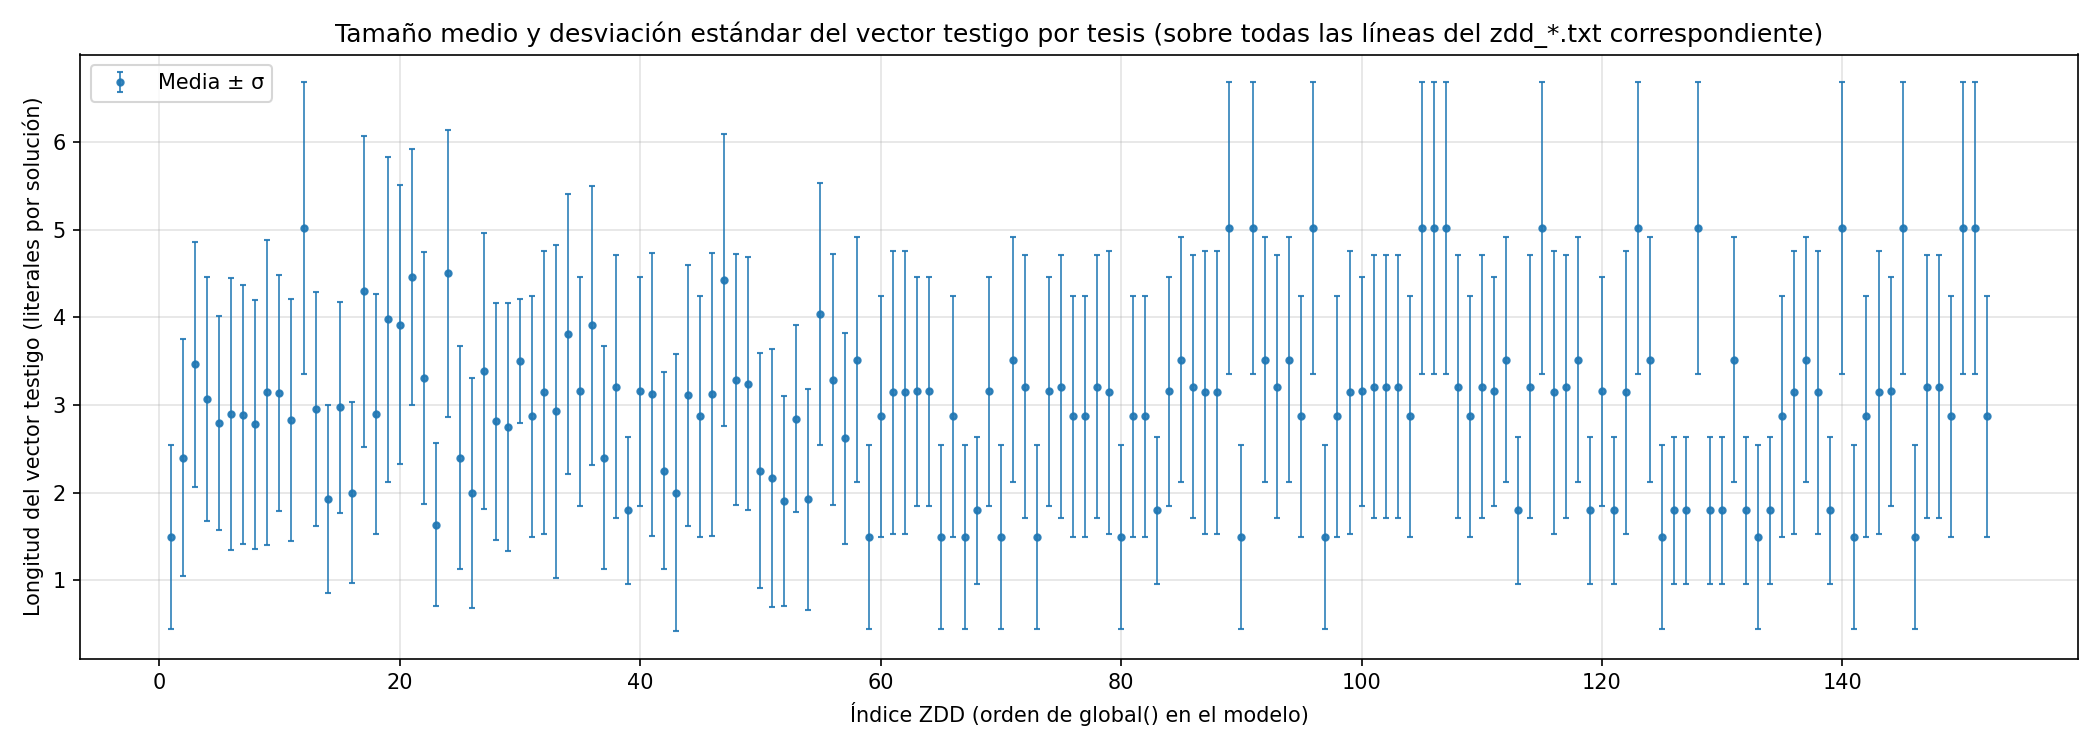
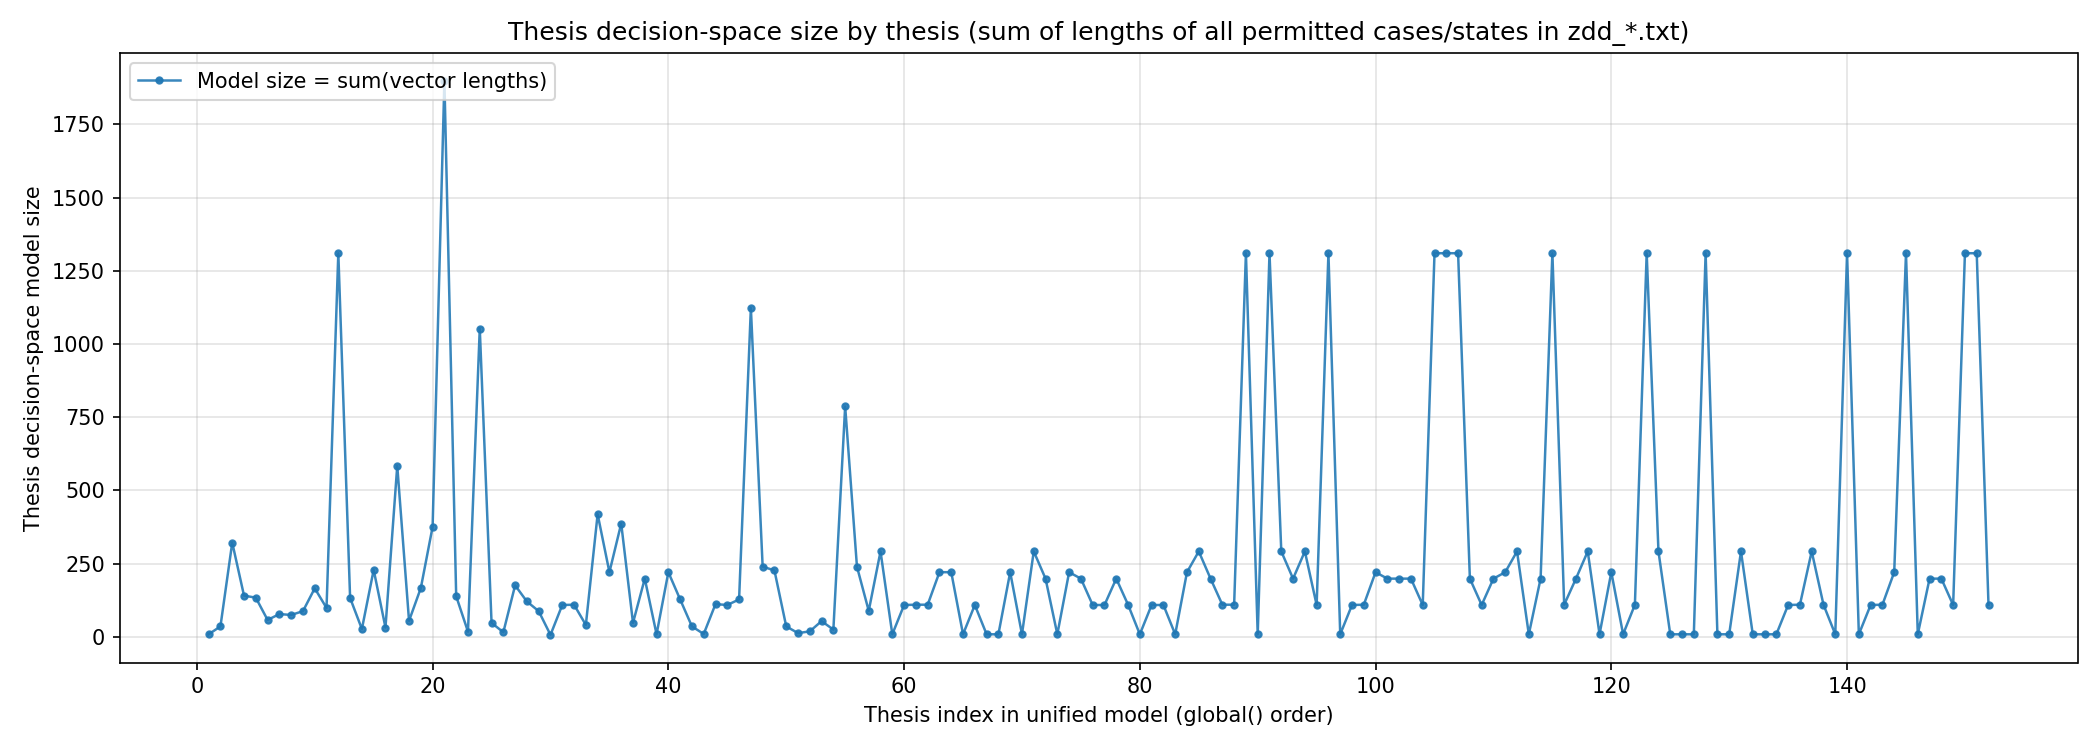
Update thesis decision-space metrics and terminology
Align similarity documentation and outputs with thesis/facts/decision-space terms.
Recompute per-thesis analysis using model size as the sum of vector lengths,
refresh the thesis plot, and add an across-theses summary file with mean/stdev.

Made-with: Cursor

Changed region(s): [[0.031, 0.184, 0.9905, 0.9813], [0.0, 0.0307, 0.9905, 0.2147], [0.0, 0.2453, 0.0619, 0.7973]]

diff --git a/methods/tools/case_resolution_similarity.py b/methods/tools/case_resolution_similarity.py
@@ -1,23 +1,20 @@
 #!/usr/bin/env python3
 """
-Case vs resolution similarity — one summary table only.
+Case vs resolution similarity and thesis decision-space size.
 
-Case similarity: Jaccard on global fact ID sets from witness_export_<n>.json (field assets).
-Resolution similarity: Jaccard on sets of ZDD solution lines from zdd_<n>.txt.
+Definitions:
+- facts: asset IDs in witness_export_<n>.json (field "assets")
+- thesis decision space: full ZDD in zdd_<n>.txt
+- permitted case/state: one vector line in zdd_<n>.txt
 
 Writes:
-  - results/analysis/case_resolution_similarity.txt — table (case band vs median resolution %)
-  - results/analysis/case_resolution_similarity.png — same data as a line chart
-  - results/analysis/thesis_tamano_medio_desviacion.csv — por tesis: hechos en el caso,
-    número de líneas ZDD, tamaño medio de cada solución (cardinal del vector testigo),
-    desviación estándar de esos tamaños
-  - results/analysis/thesis_tamano_medio_desviacion.png — gráfico del tamaño medio ± σ por tesis
-
-Band definitions (raw case Jaccard c), no overlap:
-  - Rows 100 and 90: same value — median resolution among all pairs with c >= 0.9
-  - 80: [0.8, 0.9)   70: [0.7, 0.8)  …  0: [0.0, 0.1)
-
-  python3 methods/tools/case_resolution_similarity.py
+  - results/analysis/case_resolution_similarity.txt
+  - results/analysis/case_resolution_similarity.png
+  - results/analysis/thesis_tamano_medio_desviacion.csv
+    per thesis: facts, permitted cases, mean/stdev vector length, and
+    model-size metric = sum of lengths of all vectors in thesis decision space.
+  - results/analysis/thesis_tamano_medio_desviacion.png
+    plot of thesis decision-space model size by thesis index.
 """
 from __future__ import annotations
 
@@ -40,6 +37,7 @@ OUT_TABLE = ROOT / "results" / "analysis" / "case_resolution_similarity.txt"
 OUT_PNG = ROOT / "results" / "analysis" / "case_resolution_similarity.png"
 OUT_THESIS_STATS = ROOT / "results" / "analysis" / "thesis_tamano_medio_desviacion.csv"
 OUT_THESIS_PNG = ROOT / "results" / "analysis" / "thesis_tamano_medio_desviacion.png"
+OUT_THESIS_SUMMARY = ROOT / "results" / "analysis" / "thesis_decision_space_summary.txt"
 
 _THESIS_ORDER_RE = re.compile(
     r"asset\s+tesis(\d+)_valida\s*=\s*global\(\s*\)\s*;",
@@ -193,14 +191,16 @@ def main() -> None:
         else:
             mean_sz = 0.0
             dev_sz = 0.0
+        model_size_sum = sum(lengths)
         stat_rows.append(
             {
-                "tesis_numero_registro": tid,
-                "indice_zdd": zid,
-                "numero_hechos_caso": n_facts,
-                "numero_soluciones_zdd": n_lines,
-                "tamano_medio_vector_testigo": round(mean_sz, 6),
-                "desviacion_estandar_tamano_vector": round(dev_sz, 6),
+                "thesis_registry_id": tid,
+                "thesis_zdd_index": zid,
+                "facts_count": n_facts,
+                "permitted_cases_count": n_lines,
+                "mean_vector_length": round(mean_sz, 6),
+                "stdev_vector_length": round(dev_sz, 6),
+                "thesis_decision_space_model_size": model_size_sum,
             }
         )
 
@@ -209,6 +209,19 @@ def main() -> None:
         w.writeheader()
         w.writerows(stat_rows)
     print(str(OUT_THESIS_STATS.relative_to(ROOT)))
+
+    model_sizes = [int(r["thesis_decision_space_model_size"]) for r in stat_rows]
+    summary_lines = [
+        "thesis_decision_space_model_size summary (across theses)",
+        f"thesis_count: {len(model_sizes)}",
+        f"mean: {statistics.mean(model_sizes):.6f}",
+        f"stdev: {statistics.stdev(model_sizes):.6f}" if len(model_sizes) > 1 else "stdev: 0.000000",
+        f"min: {min(model_sizes)}",
+        f"median: {statistics.median(model_sizes):.6f}",
+        f"max: {max(model_sizes)}",
+    ]
+    OUT_THESIS_SUMMARY.write_text("\n".join(summary_lines) + "\n", encoding="utf-8")
+    print(str(OUT_THESIS_SUMMARY.relative_to(ROOT)))
 
     ge_090: List[float] = []
     by_band: Dict[int, list] = defaultdict(list)
@@ -271,28 +284,25 @@ def main() -> None:
         plt.close()
         print(str(OUT_PNG.relative_to(ROOT)))
 
-        stat_sorted = sorted(stat_rows, key=lambda r: int(r["indice_zdd"]))
-        xz = [int(r["indice_zdd"]) for r in stat_sorted]
-        means = [float(r["tamano_medio_vector_testigo"]) for r in stat_sorted]
-        stdevs = [float(r["desviacion_estandar_tamano_vector"]) for r in stat_sorted]
+        stat_sorted = sorted(stat_rows, key=lambda r: int(r["thesis_zdd_index"]))
+        xz = [int(r["thesis_zdd_index"]) for r in stat_sorted]
+        model_sizes = [int(r["thesis_decision_space_model_size"]) for r in stat_sorted]
         plt.figure(figsize=(14, 5))
-        plt.errorbar(
+        plt.plot(
             xz,
-            means,
-            yerr=stdevs,
-            fmt="o",
+            model_sizes,
+            marker="o",
+            linewidth=1.2,
             markersize=3,
-            capsize=1.5,
-            elinewidth=0.85,
             color="C0",
             alpha=0.88,
-            label="Media ± σ",
+            label="Model size = sum(vector lengths)",
         )
-        plt.xlabel("Índice ZDD (orden de global() en el modelo)")
-        plt.ylabel("Longitud del vector testigo (literales por solución)")
+        plt.xlabel("Thesis index in unified model (global() order)")
+        plt.ylabel("Thesis decision-space model size")
         plt.title(
-            "Tamaño medio y desviación estándar del vector testigo por tesis "
-            "(sobre todas las líneas del zdd_*.txt correspondiente)"
+            "Thesis decision-space size by thesis "
+            "(sum of lengths of all permitted cases/states in zdd_*.txt)"
         )
         plt.grid(True, alpha=0.35)
         plt.legend(loc="upper left")

diff --git a/README.md b/README.md
@@ -1,12 +1,12 @@
 # Computational Analysis of Judicial Consistency
 
-Code and data for *Computational Analysis of Judicial Consistency through Satisfiability Theory* — formalizing Mexican Supreme Court theses in **Witness**, solving each thesis’s validation constraint with a **CUDA ZDD** workflow, and comparing **case structure** (shared legal facts from witness exports) with **resolution structure** (overlap of solution-space fingerprints).
+Code and data for *Computational Analysis of Judicial Consistency through Satisfiability Theory* — formalizing Mexican Supreme Court theses in **Witness**, solving each thesis’s validation constraint with a **CUDA ZDD** workflow, and comparing **facts overlap** across theses with overlap in their **thesis decision spaces**.
 
 ## What this repository does
 
 1. **`methods/analysis/unified_legal_conclusions.wit`** — single model: shared legal vocabulary plus one section per thesis with clauses and `asset tesis<ID>_valida = global();`.
 2. **`witnessc`** (built under `methods/witness/`) compiles the model and, with **`tree_fold_cuda`** as external solver (run from **`results/zdd/`**), emits **`zdd_*.bin`** solution-space dumps and **`witness_export_*.json`** per global check (thesis order matches `global()` order in the `.wit` file).
-3. Python tools convert binaries to text, aggregate **arrays** into CSVs, and compute **case vs resolution Jaccard similarity** plus per-thesis **mean/std of witness-vector lengths**, producing **tables and PNG plots** under **`results/analysis/`**.
+3. Python tools convert binaries to text, aggregate solution vectors into CSVs, and compute **facts-vs-decision-space Jaccard similarity** plus per-thesis decision-space size metrics, producing tables and PNG plots under **`results/analysis/`**.
 
 ## Repository layout
 
